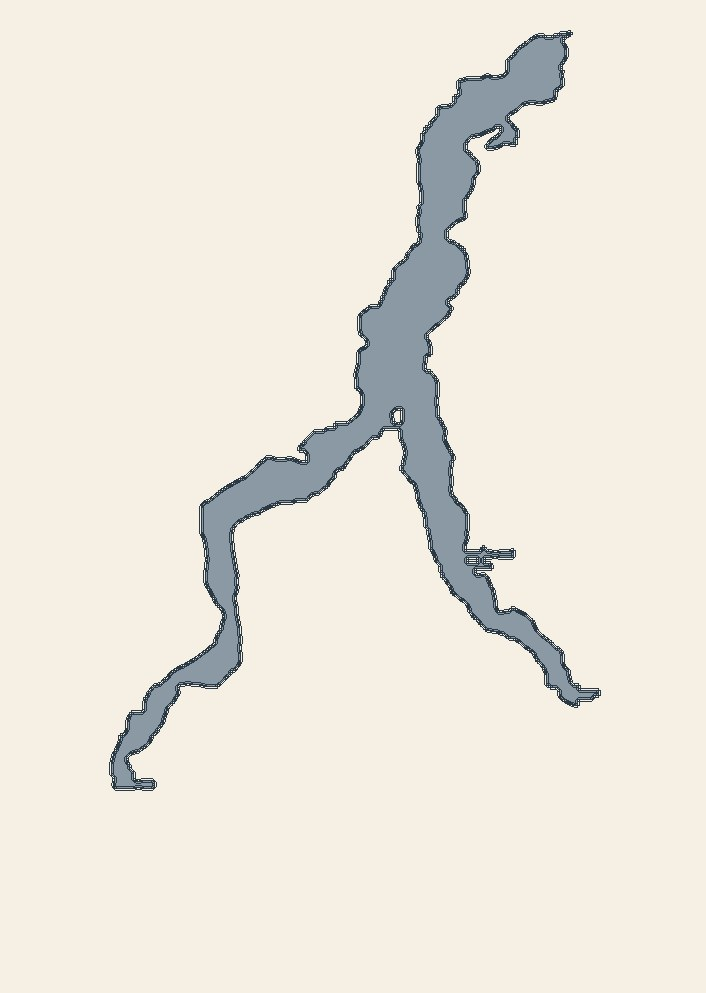
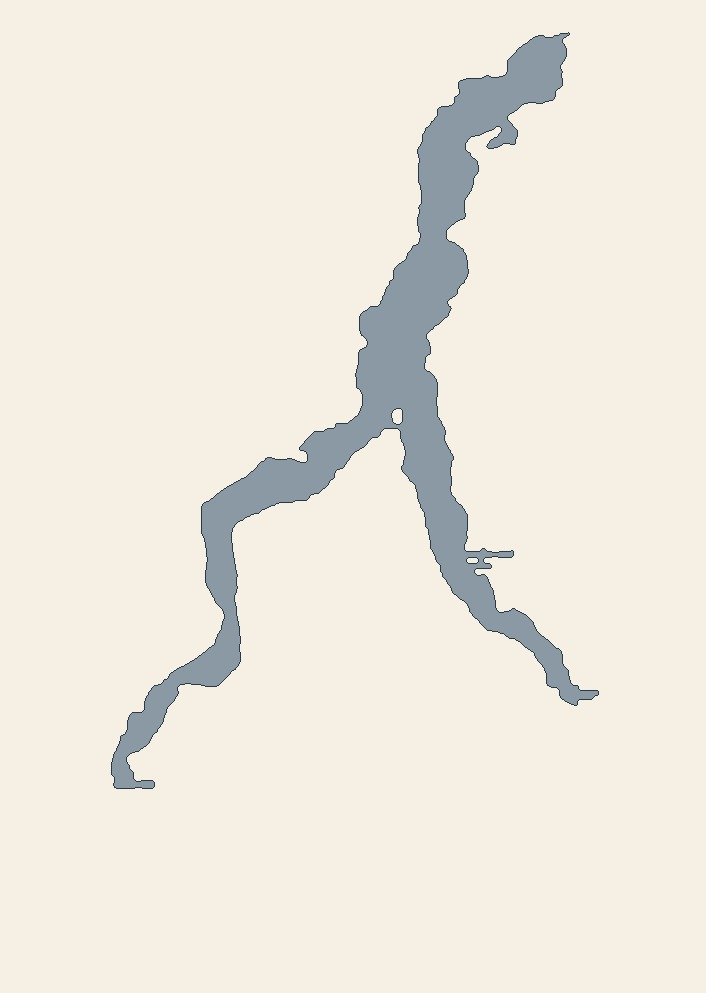
Map: smoother coastline + label de-clutter
- Smooth the lake silhouette: Gaussian-blur the binary water mask
  (sigma 1.4) and re-threshold, killing per-pixel jaggies while
  keeping bays and peninsulas
- Switch to a single-pixel ink coastline (was 2 px) — reads as one
  clean line instead of a fuzzy band
- Pin label boxes shrunk slightly (font 13 px, tighter padding) so
  three labels fit side by side in the narrow Tremezzo–Bellagio strait
- Stagger the dense northern cluster vertically — Balbianello and
  Bellagio sit below their dots, Carlotta and Varenna sit above —
  via per-pin data-id offsets, so the four cards no longer collide

diff --git a/app/globals.css b/app/globals.css
@@ -989,25 +989,33 @@ html[dir="rtl"] .fleet-item .img-block .corner-label { left: auto; right: 24px; 
   top: 50%;
   display: inline-flex;
   align-items: baseline;
-  gap: 8px;
+  gap: 7px;
   white-space: nowrap;
   background: #fff;
   border: 1px solid var(--ink);
-  padding: 4px 10px 4px 8px;
+  padding: 3px 9px 3px 7px;
   font-family: var(--display);
-  font-size: 14px;
+  font-size: 13px;
   color: var(--ink);
   pointer-events: none;
   transform: translateY(-50%);
 }
 .lake-pin .name .num {
   font-family: var(--mono);
-  font-size: 10px;
+  font-size: 9px;
   letter-spacing: 0.1em;
   color: var(--muted);
 }
-.lake-pin.label-right .name { left: 16px; }
-.lake-pin.label-left  .name { right: 16px; }
+.lake-pin.label-right .name { left: 14px; }
+.lake-pin.label-left  .name { right: 14px; }
+
+/* Stagger labels vertically inside the dense northern cluster
+   (Balbianello / Carlotta / Bellagio / Varenna) so the boxes don't overlap.
+   Each pin gets a small offset above or below its dot, alternating. */
+.lake-pin[data-id="balbianello"] .name { top: calc(50% + 16px); }
+.lake-pin[data-id="carlotta"]    .name { top: calc(50% - 16px); }
+.lake-pin[data-id="bellagio"]    .name { top: calc(50% + 16px); }
+.lake-pin[data-id="varenna"]     .name { top: calc(50% - 16px); }
 
 .lake-pin:hover .dot,
 .lake-pin.active .dot {

diff --git a/app/page.tsx b/app/page.tsx
@@ -111,6 +111,7 @@ function LakeComoMap({ pins, activeId, onActivate }: {
             <button
               key={pin.id}
               type="button"
+              data-id={pin.id}
               className={`lake-pin lake-pin-${pin.type} ${isActive ? "active" : ""} ${labelLeft ? "label-left" : "label-right"}`}
               style={pos}
               onMouseEnter={() => onActivate(pin.id)}
